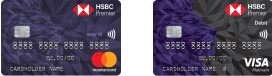
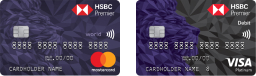
fix

diff --git a/source/index_vn_1.html b/source/index_vn_1.html
@@ -55,7 +55,7 @@
                 <td style="margin: 0px; padding: 0px; font-family: Arial, Helvetica, sans-serif !important; font-size: 16px; line-height: 1.3;"><table width="100%" border="0" cellpadding="0" cellspacing="0" class="chs_body">
                   <tr>
                     <td style="padding: 0; margin: 0; border: none; line-height: 1.3; font-size: 16px; font-family: Arial, Helvetica, sans-serif !important;"><img src="image/chs_hsbc_logo.jpg" width="118" height="30" alt="" style="display: block"/></td>
-                    <td width="50%" align="right" style="padding: 0; margin: 0; border: none; line-height: 1.3; font-size: 16px; font-family: Arial, Helvetica, sans-serif !important;"><img src="image/chs_hsbc_cards.jpg" width="115" height="32" alt="" style="display: block"/></td>
+                    <td width="50%" align="right" style="padding: 0; margin: 0; border: none; line-height: 1.3; font-size: 16px; font-family: Arial, Helvetica, sans-serif !important;"><img src="image/chs_hsbc_cards.jpg" width="108" height="32" alt="" style="display: block"/></td>
                   </tr>
                 </table></td>
                 <td>&nbsp;</td>
@@ -87,10 +87,10 @@
                       <td height="40" style="padding: 0; margin: 0; border: none; line-height: 1.3; font-size: 16px; font-family: Arial, Helvetica, sans-serif !important;">&nbsp;</td>
                     </tr>
                     <tr>
-                      <td bgcolor="#6E0009" style="padding: 30px 30px 0 30px; margin: 0; border: none; line-height: 1.3; font-size: 18px; font-family: Arial, Helvetica, sans-serif !important; color: #FFFFFF"><strong>Kính gửi Quý khách hàng Premier XXXXXX,</strong></td>
+                      <td bgcolor="#6E0009" style="padding: 30px 30px 0 30px; margin: 0; border-bottom: 1px solid #6E0009; line-height: 1.3; font-size: 18px; font-family: Arial, Helvetica, sans-serif !important; color: #FFFFFF"><strong>Kính gửi Quý khách hàng Premier XXXXXX,</strong></td>
                     </tr>
                     <tr>
-                      <td bgcolor="#6E0009" style="padding: 10px 30px 0 30px; margin: 0; border: none; line-height: 1.3; font-size: 18px; font-family: Arial, Helvetica, sans-serif !important; color: #FFFFFF">Cảm ơn Quý khách đã lựa chọn HSBC Premier để chúng tôi được vinh dự đồng hành trong hành trình xây dựng cuộc sống thịnh vượng. HSBC Premier xin vui mừng thông báo: Quý khách đã đủ điều kiện nhận được <strong>Ưu đãi Chơi golf</strong>. Đây như món quà chào mừng đánh dấu hành trình trải nghiệm cuộc sống vẹn toàn, sung túc của Quý khách.</td>
+                      <td bgcolor="#6E0009" style="padding: 10px 30px 0 30px; margin: 0; border-bottom: 1px solid #6E0009; line-height: 1.3; font-size: 18px; font-family: Arial, Helvetica, sans-serif !important; color: #FFFFFF">Cảm ơn Quý khách đã lựa chọn HSBC Premier để chúng tôi được vinh dự đồng hành trong hành trình xây dựng cuộc sống thịnh vượng. HSBC Premier xin vui mừng thông báo: Quý khách đã đủ điều kiện nhận được <strong>Ưu đãi Chơi golf</strong>. Đây như món quà chào mừng đánh dấu hành trình trải nghiệm cuộc sống vẹn toàn, sung túc của Quý khách.</td>
                     </tr>
                   </table></td>
                 <td width="30"><img src="image/dash.png" width="30" height="30" alt="" style="display: block"/></td>
@@ -106,7 +106,7 @@
 					<td style="padding: 0; margin: 0; border: none; line-height: 1.3; font-size: 16px; font-family: Arial, Helvetica, sans-serif !important;"><table width="100%" border="0" cellpadding="0" cellspacing="0" class="chs_body">
 						<tr>
 							
-							<td bgcolor="#a5000e" align="center" valign="middle" style="padding: 0 30px 0 30px; margin: 0; border: none; line-height: 1.2; font-size: 20px; font-family: Arial, Helvetica, sans-serif !important; color: #FFFFFF;"><strong>04 Ưu đãi Chơi golf</strong>, có giá trị trong vòng 01 năm kể từ ngày phát hành</td>
+							<td bgcolor="#a5000e" align="center" valign="middle" style="padding: 0 30px 0 30px; margin: 0; border-right: 1px solid #a5000e; line-height: 1.2; font-size: 20px; font-family: Arial, Helvetica, sans-serif !important; color: #FFFFFF;"><strong>04 Ưu đãi Chơi golf</strong>, có giá trị trong vòng 01 năm kể từ ngày phát hành</td>
 							<td width="319" style="padding: 0; margin: 0; border: none; line-height: 1.3; font-size: 16px; font-family: Arial, Helvetica, sans-serif !important;"><img src="image/chs_box_5.jpg" width="319" height="auto" alt="" style="display: block"/></td>
 						</tr>
 						</table></td>
@@ -122,10 +122,10 @@
                 <td width="30"><img src="image/dash.png" width="30" height="30" alt="" style="display: block"/></td>
                 <td style="padding: 0; margin: 0; border: none; line-height: 1.3; font-size: 16px; font-family: Arial, Helvetica, sans-serif !important;"><table width="100%" border="0" cellpadding="0" cellspacing="0" class="chs_body">
                     <tr>
-                      <td bgcolor="#6E0009" style="padding: 15px 30px 0 30px; margin: 0; border: none; line-height: 1.3; font-size: 14px; font-family: Arial, Helvetica, sans-serif !important; color: #FFFFFF"><a href="image/Popup_GOLF_VN.pdf" target="_blank" style="color: #000000; text-decoration: underline; color: #FFFFFF">Hướng dẫn sử dụng ưu đãi</a></td>
+                      <td bgcolor="#6E0009" style="padding: 15px 30px 0 30px; margin: 0; border-bottom: 1px solid #6E0009; line-height: 1.3; font-size: 14px; font-family: Arial, Helvetica, sans-serif !important; color: #FFFFFF"><a href="image/Popup_GOLF_VN.pdf" target="_blank" style="color: #000000; text-decoration: underline; color: #FFFFFF">Hướng dẫn sử dụng ưu đãi</a></td>
                     </tr>
                     <tr>
-                      <td bgcolor="#6E0009" style="padding: 15px 30px 0 30px; margin: 0; border: none; line-height: 1.3; font-size: 14px; font-family: Arial, Helvetica, sans-serif !important; color: #FFFFFF">Hy vọng Quý khách sẽ tận hưởng trọn vẹn Ưu đãi và tiếp tục khai mở các đặc quyền HSBC Premier dành riêng cho mình.</td>
+                      <td bgcolor="#6E0009" style="padding: 15px 30px 0 30px; margin: 0; border-bottom: 1px solid #6E0009; line-height: 1.3; font-size: 14px; font-family: Arial, Helvetica, sans-serif !important; color: #FFFFFF">Hy vọng Quý khách sẽ tận hưởng trọn vẹn Ưu đãi và tiếp tục khai mở các đặc quyền HSBC Premier dành riêng cho mình.</td>
                     </tr>
 					<tr>
 				  <td bgcolor="#6E0009" align="center" style="padding: 0 30px 0 30px; margin: 0; border: none; line-height: 1.3; font-size: 16px; font-family: Arial, Helvetica, sans-serif !important; color: #000000;">&nbsp;</td>

diff --git a/source/index_en_1.html b/source/index_en_1.html
@@ -55,7 +55,7 @@
                   <td style="margin: 0px; padding: 0px; font-family: Arial, Helvetica, sans-serif !important; font-size: 16px; line-height: 1.3;"><table width="100%" border="0" cellpadding="0" cellspacing="0" class="chs_body">
                       <tr>
                         <td style="padding: 0; margin: 0; border: none; line-height: 1.3; font-size: 16px; font-family: Arial, Helvetica, sans-serif !important;"><img src="image/chs_hsbc_logo.jpg" width="118" height="30" alt="" style="display: block"/></td>
-                        <td width="50%" align="right" style="padding: 0; margin: 0; border: none; line-height: 1.3; font-size: 16px; font-family: Arial, Helvetica, sans-serif !important;"><img src="image/chs_hsbc_cards.jpg" width="115" height="32" alt="" style="display: block"/></td>
+                        <td width="50%" align="right" style="padding: 0; margin: 0; border: none; line-height: 1.3; font-size: 16px; font-family: Arial, Helvetica, sans-serif !important;"><img src="image/chs_hsbc_cards.jpg" width="108" height="32" alt="" style="display: block"/></td>
                       </tr>
                     </table></td>
                   <td>&nbsp;</td>
@@ -86,10 +86,10 @@
                       <td height="40" style="padding: 0; margin: 0; border: none; line-height: 1.3; font-size: 16px; font-family: Arial, Helvetica, sans-serif !important;">&nbsp;</td>
                     </tr>
                     <tr>
-                      <td bgcolor="#6E0009" style="padding: 30px 30px 0 30px; margin: 0; border: none; line-height: 1.3; font-size: 18px; font-family: Arial, Helvetica, sans-serif !important; color: #FFFFFF"><strong>Dear Valued Premier Customer XXXXXX,</strong></td>
+                      <td bgcolor="#6E0009" style="padding: 30px 30px 0 30px; margin: 0; border-bottom: 1px solid #6E0009; line-height: 1.3; font-size: 18px; font-family: Arial, Helvetica, sans-serif !important; color: #FFFFFF"><strong>Dear Valued Premier Customer XXXXXX,</strong></td>
                     </tr>
                     <tr>
-                      <td bgcolor="#6E0009" style="padding: 10px 30px 0 30px; margin: 0; border: none; line-height: 1.3; font-size: 18px; font-family: Arial, Helvetica, sans-serif !important; color: #FFFFFF">Thank you for choosing HSBC Premier as your trusted partner so we can accompany you in enjoying prosperous experiences in the future. We would like to offer you <strong>Golf Privilege</strong> as a welcoming gift that marks the beginning of your journey towards a fulfilling life.</td>
+                      <td bgcolor="#6E0009" style="padding: 10px 30px 0 30px; margin: 0; border-bottom: 1px solid #6E0009; line-height: 1.3; font-size: 18px; font-family: Arial, Helvetica, sans-serif !important; color: #FFFFFF">Thank you for choosing HSBC Premier as your trusted partner so we can accompany you in enjoying prosperous experiences in the future. We would like to offer you <strong>Golf Privilege</strong> as a welcoming gift that marks the beginning of your journey towards a fulfilling life.</td>
                     </tr>
                   </table></td>
                 <td width="30"><img src="image/dash.png" width="30" height="30" alt="" style="display: block"/></td>
@@ -105,7 +105,7 @@
 					<td style="padding: 0; margin: 0; border: none; line-height: 1.3; font-size: 16px; font-family: Arial, Helvetica, sans-serif !important;"><table width="100%" border="0" cellpadding="0" cellspacing="0" class="chs_body">
 						<tr>
 							
-							<td bgcolor="#a5000e" align="center" valign="middle" style="padding: 0 30px 0 30px; margin: 0; border: none; line-height: 1.2; font-size: 20px; font-family: Arial, Helvetica, sans-serif !important; color: #FFFFFF;"><strong>04 rounds of golf</strong> which are valid for 01 year from the issued date</td>
+							<td bgcolor="#a5000e" align="center" valign="middle" style="padding: 0 30px 0 30px; margin: 0; border-right: 1px solid #a5000e; line-height: 1.2; font-size: 20px; font-family: Arial, Helvetica, sans-serif !important; color: #FFFFFF;"><strong>04 rounds of golf</strong> which are valid for 01 year from the issued date</td>
 							<td width="319" style="padding: 0; margin: 0; border: none; line-height: 1.3; font-size: 16px; font-family: Arial, Helvetica, sans-serif !important;"><img src="image/chs_box_5.jpg" width="319" height="auto" alt="" style="display: block"/></td>
 						</tr>
 						</table></td>
@@ -121,10 +121,10 @@
                 <td width="30"><img src="image/dash.png" width="30" height="30" alt="" style="display: block"/></td>
                 <td style="padding: 0; margin: 0; border: none; line-height: 1.3; font-size: 16px; font-family: Arial, Helvetica, sans-serif !important;"><table width="100%" border="0" cellpadding="0" cellspacing="0" class="chs_body">
                     <tr>
-                      <td bgcolor="#6E0009" style="padding: 15px 30px 0 30px; margin: 0; border: none; line-height: 1.3; font-size: 14px; font-family: Arial, Helvetica, sans-serif !important; color: #FFFFFF"><a href="image/Popup_GOLF_EN.pdf" target="_blank" style="color: #000000; text-decoration: underline; color: #FFFFFF">Reward guidance</a></td>
+                      <td bgcolor="#6E0009" style="padding: 15px 30px 0 30px; margin: 0; border-bottom: 1px solid #6E0009; line-height: 1.3; font-size: 14px; font-family: Arial, Helvetica, sans-serif !important; color: #FFFFFF"><a href="image/Popup_GOLF_EN.pdf" target="_blank" style="color: #000000; text-decoration: underline; color: #FFFFFF">Reward guidance</a></td>
                     </tr>
                     <tr>
-                      <td bgcolor="#6E0009" style="padding: 15px 30px 0 30px; margin: 0; border: none; line-height: 1.3; font-size: 14px; font-family: Arial, Helvetica, sans-serif !important; color: #FFFFFF">We hope you will enjoy the Privilege and discover more ways to live a life full of life with HSBC Premier.</td>
+                      <td bgcolor="#6E0009" style="padding: 15px 30px 0 30px; margin: 0; border-bottom: 1px solid #6E0009; line-height: 1.3; font-size: 14px; font-family: Arial, Helvetica, sans-serif !important; color: #FFFFFF">We hope you will enjoy the Privilege and discover more ways to live a life full of life with HSBC Premier.</td>
                     </tr>
 					<tr>
 				  <td bgcolor="#6E0009" align="center" style="padding: 0 30px 0 30px; margin: 0; border: none; line-height: 1.3; font-size: 16px; font-family: Arial, Helvetica, sans-serif !important; color: #000000;">&nbsp;</td>

diff --git a/source/index_en.html b/source/index_en.html
@@ -55,7 +55,7 @@
                   <td style="margin: 0px; padding: 0px; font-family: Arial, Helvetica, sans-serif !important; font-size: 16px; line-height: 1.3;"><table width="100%" border="0" cellpadding="0" cellspacing="0" class="chs_body">
                       <tr>
                         <td style="padding: 0; margin: 0; border: none; line-height: 1.3; font-size: 16px; font-family: Arial, Helvetica, sans-serif !important;"><img src="image/chs_hsbc_logo.jpg" width="118" height="30" alt="" style="display: block"/></td>
-                        <td width="50%" align="right" style="padding: 0; margin: 0; border: none; line-height: 1.3; font-size: 16px; font-family: Arial, Helvetica, sans-serif !important;"><img src="image/chs_hsbc_cards.jpg" width="115" height="32" alt="" style="display: block"/></td>
+                        <td width="50%" align="right" style="padding: 0; margin: 0; border: none; line-height: 1.3; font-size: 16px; font-family: Arial, Helvetica, sans-serif !important;"><img src="image/chs_hsbc_cards.jpg" width="108" height="32" alt="" style="display: block"/></td>
                       </tr>
                     </table></td>
                   <td>&nbsp;</td>

diff --git a/source/index_vn.html b/source/index_vn.html
@@ -55,7 +55,7 @@
                 <td style="margin: 0px; padding: 0px; font-family: Arial, Helvetica, sans-serif !important; font-size: 16px; line-height: 1.3;"><table width="100%" border="0" cellpadding="0" cellspacing="0" class="chs_body">
                   <tr>
                     <td style="padding: 0; margin: 0; border: none; line-height: 1.3; font-size: 16px; font-family: Arial, Helvetica, sans-serif !important;"><img src="image/chs_hsbc_logo.jpg" width="118" height="30" alt="" style="display: block"/></td>
-                    <td width="50%" align="right" style="padding: 0; margin: 0; border: none; line-height: 1.3; font-size: 16px; font-family: Arial, Helvetica, sans-serif !important;"><img src="image/chs_hsbc_cards.jpg" width="115" height="32" alt="" style="display: block"/></td>
+                    <td width="50%" align="right" style="padding: 0; margin: 0; border: none; line-height: 1.3; font-size: 16px; font-family: Arial, Helvetica, sans-serif !important;"><img src="image/chs_hsbc_cards.jpg" width="108" height="32" alt="" style="display: block"/></td>
                   </tr>
                 </table></td>
                 <td>&nbsp;</td>
